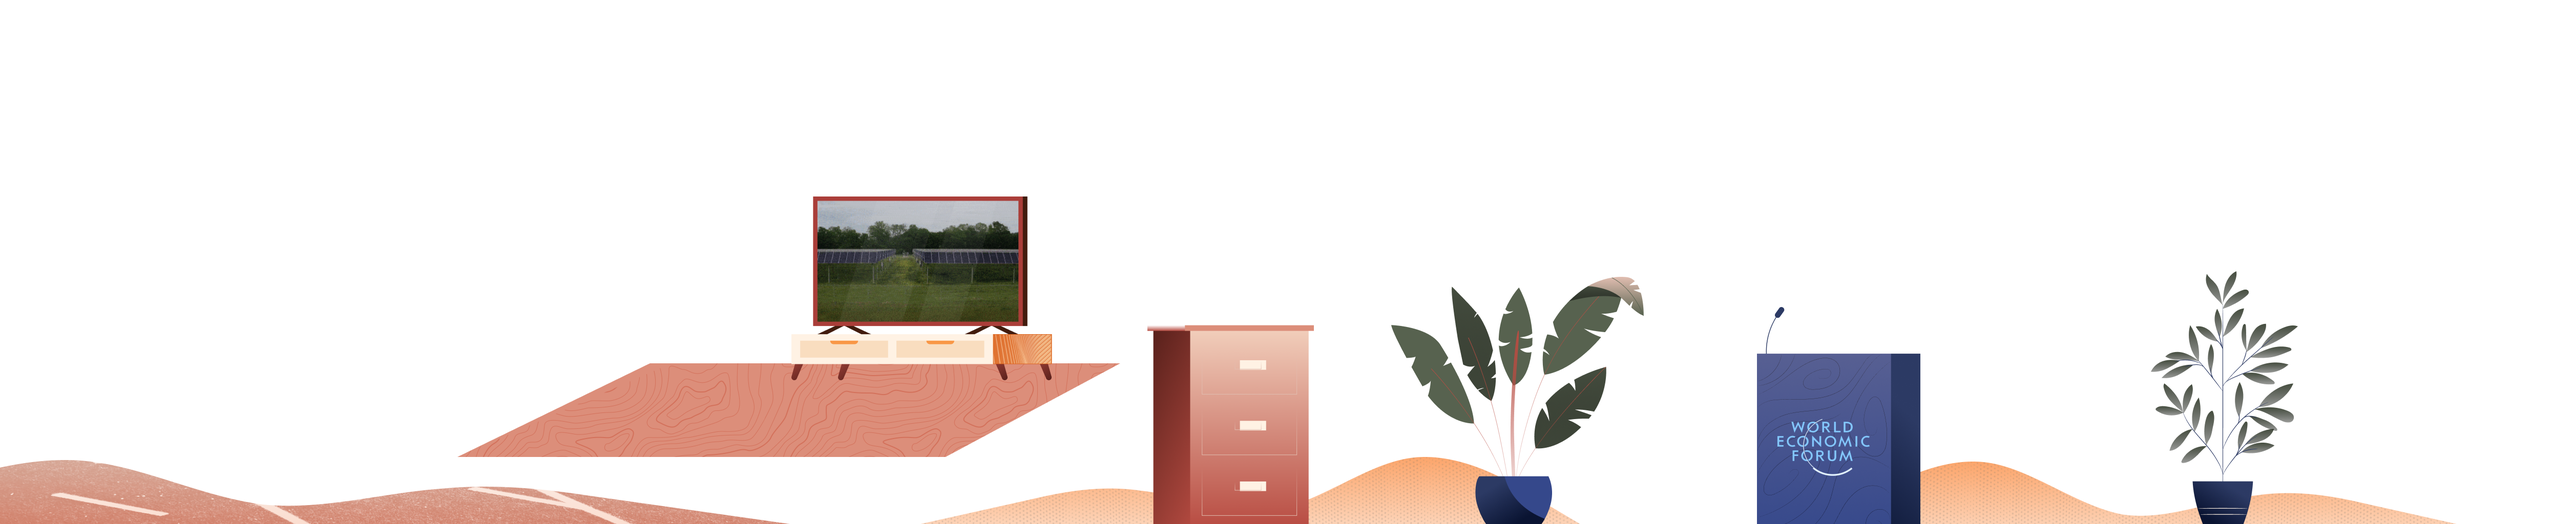
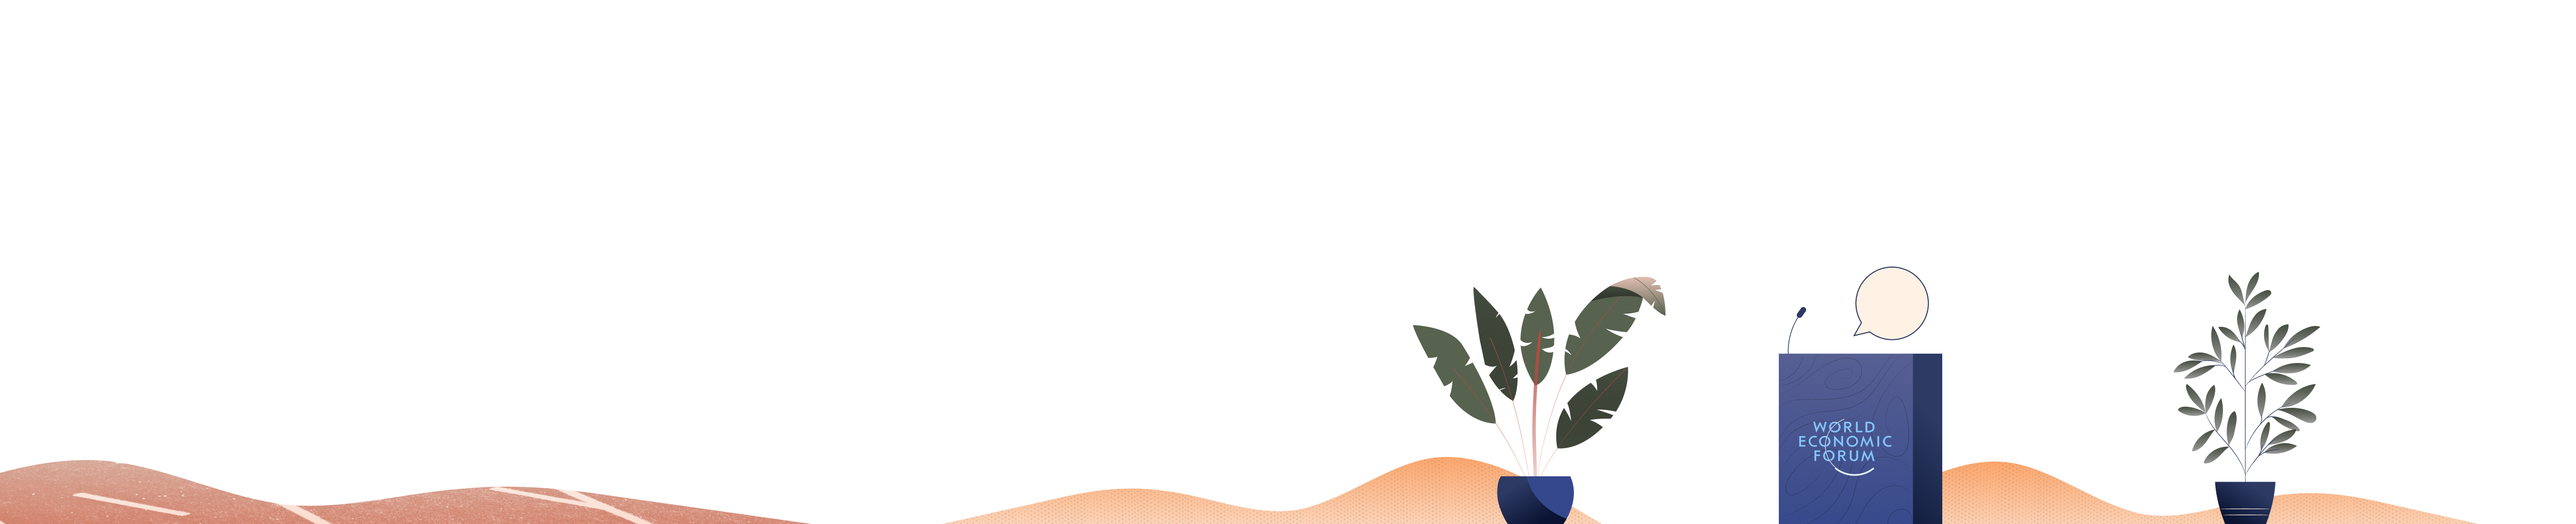
update

diff --git a/components/Chapter1.vue b/components/Chapter1.vue
@@ -8,6 +8,9 @@
                 <img class="b--ss-a__ft-items__artwork" @load="handleLoad"  @error="handleLoad" src="@/assets/img/chapter-1/front.png" alt=""> 
             </div>
             <div class="b--ss-a__content">
+
+                <!-- Intro Story -->
+                <!-- first div position element -->
                 <div class="b--chapter1-a__content">
                     <div class="b--intro-a">
                         <h1 class="b--intro-a__title">
@@ -19,6 +22,30 @@
                         <h3 class="b--intro-a__subtitle">{{chapter.description}}</h3>
                     </div>
                 </div>
+                <!-- Intro Story -->
+
+                <div class="b--chapter1-a__content b--chapter1-a__content--second">
+                    <div class="b--card-a">
+                        <div class="b--card-a__artwork"></div>
+                        <div class="b--card-a__wrapper">
+                            <SanityContent :blocks="chapter.content"  />
+                        </div>
+                    </div>
+                </div>
+
+                <div class="b--chapter1-a__artwork b--chapter1-a__artwork--second">
+                    <div class="b--card-b">
+                        <div class="b--card-a__artwork"></div>
+                        <div class="b--card-a__wrapper">
+                           <img src="@/assets/img/chapter-1/frame.gif" alt="">
+                        </div>
+                    </div>
+                </div>
+
+                 <div class="b--chapter1-a__artwork b--chapter1-a__artwork--third">
+                    <img src="@/assets/img/chapter-1/browser.gif" alt="">
+                </div>
+
             </div>
             <div class="b--ss-a__bg-items">
                 <img class="b--ss-a__bg-items__artwork" @load="handleLoad"  @error="handleLoad" src="@/assets/img/chapter-1/back.png" alt="">    
@@ -30,6 +57,7 @@
 <script>
 // Data import
 import { groq } from '@nuxtjs/sanity';
+import { SanityContent } from '@nuxtjs/sanity/dist/components/sanity-content';
 
 export default {
     data:()=>{
@@ -39,13 +67,17 @@ export default {
             chapter : null,
 		}
 	},
+    components:{
+        SanityContent
+    },
     methods: {
         async getContent(){
             this.lang = (this.$route.name == 'index') ? 'en' : this.$route.name;
             const query_content = groq`*[_type == "chapterOne"][0]{
                 "title" : title['`+this.lang+`'],
                 "date" : date['`+this.lang+`'],
-                "description" : description['`+this.lang+`']
+                "description" : description['`+this.lang+`'],
+                "content" : content['`+this.lang+`']
             }`;
             this.chapter = await this.$sanity.fetch(query_content);
             this.contentLoaded++;

diff --git a/sass/framework/_vars/vars.scss b/sass/framework/_vars/vars.scss
@@ -3,35 +3,42 @@
 */
 
 
+// BROWNS
+$color-a:#421C0E;
+$color-b:#AA3E39;
+$color-c:#DC8E7A;
+$color-d:#744A45;
+$color-b:#B36148;
 
-$color-a:#0a1432;
-$color-b:#2c3a64;
-$color-c:#421c0e;
-$color-d:#aa3e39;
+// WHITE & "BLACK"
+$color-c:#FFFFFF;
+$color-c:#2F2929;
 
-$color-b:#F98968;
-$color-c:#FFF2E4;
+// CREAM
+$color-d:#FFF2E4;
+$color-e:#F1CDBA;
+$color-f:#F9DDBF;
 
+// GREY
+$color-g:#C7C7C7;
+$color-h:#B4BFD1;
+$color-i:#A4B0C6;
 
-$color-d:#AA3E39;
-$color-e:#701C18;
+// ORANGE
+$color-j:#F99746;
+$color-k:#E8945B;
+$color-l:#F98968;
 
+// GREEN
+$color-m:#57624F;
+$color-n:#79B27F;
+$color-o:#3D4538;
 
-$color-f:#F98968;
-$color-g:#F98968;
-
-
-$color-h:#2C3A64;
-$color-i:#0A1432;
-
-
-$color-j:#454E3F;
-$color-k:#21241F;
-
-$color-l:#F99746;
-$color-m:#FFEC34;
-$color-n:#84C7FC;
-
+// BLUE
+$color-p:#2C3A64;
+$color-q:#33579E;
+$color-r:#35488B;
+$color-s:#33579E;
 
 $color-options: (
   a: $color-a,
@@ -47,10 +54,39 @@ $color-options: (
   k: $color-k,
   l: $color-l,
   m: $color-m,
-  n: $color-n
+  n: $color-n,
+  o: $color-o,
+  p: $color-p,
+  q: $color-q,
+  r: $color-r,
+  s: $color-s,
 );
 
 // needs to be defined
+// Gradient Brown1
+// linear-gradient(180deg, #B84C42 0%, rgba(184, 76, 66, 0) 100%)
+// Gradient Brown2
+// linear-gradient(180deg, #E1BEB1 0%, rgba(225, 190, 177, 0) 100%)
+// Gradient Brown3
+// linear-gradient(156.66deg, #B84C42 -7.55%, #57201B 101.54%)
+// Gradient Cream1
+// linear-gradient(180deg, #F1CDBA 0%, rgba(241, 205, 186, 0) 100%)
+// Gradient Cream2
+// linear-gradient(180deg, #F9DDBF 3.39%, rgba(249, 221, 191, 0) 91.93%)
+// Gradient White
+// linear-gradient(180deg, #FAFAFA 24.56%, rgba(250, 250, 250, 0) 161.83%)
+// Gradient White2
+// linear-gradient(180deg, #FFF3E9 0%, rgba(255, 243, 233, 0.6) 100%)
+// Gradient Orange1
+// linear-gradient(180deg, #F98968 0%, rgba(249, 137, 104, 0) 100%)
+// Gradient Orange2
+// linear-gradient(180deg, #FCA56B 0%, rgba(252, 165, 107, 0) 100%)
+// Gradient Green 1
+// linear-gradient(180deg, #454E3F 0%, rgba(33, 36, 31, 0.45) 100%)
+// Gradient Blue1
+// linear-gradient(218.3deg, #2C3A64 22.06%, #0A1432 74.88%)
+// Gradient Blue2
+// linear-gradient(360deg, #33579E 47.51%, #A6C4FF 147.8%)
 $colorbg-options: (
   a: $color-d,
   b: $color-e,

diff --git a/sass/framework/components/card/b--card-a.scss b/sass/framework/components/card/b--card-a.scss
@@ -1,18 +1,21 @@
-.b--card-a{
+.b--card-b{
+    &__artwork{
+        content:'';
+        position:absolute;
+        top:0;
+        right:-10px;
+        width:10px;
+        background:red;
+        height: 100%;
+    }
     position: relative;
-    border: 10px solid #771f1b;
-    background: linear-gradient(0deg, #feedec, #ae8f8d);
-    padding: $measure * 2 $measure * 3;
-    max-width: 539px;
-    margin-bottom: 30px;
-    z-index: 2;
-    &__title{
-        font-size: 60px;
+    &__wrapper{
+        background: linear-gradient(0deg, #feedec, #ae8f8d);
+        padding: $measure * 2 $measure * 3;
+        max-width: 539px;
+        margin-bottom: 30px;
+        z-index: 2;
+        border: 10px solid #771f1b;
     }
-    &__badge{
-        font-size: 100px;
-    }
-    &__subtitle{
-        font-size:25px;
-    }
+    
 }

diff --git a/sass/framework/components/chapter/b--chapter1-a.scss b/sass/framework/components/chapter/b--chapter1-a.scss
@@ -3,17 +3,28 @@
     &__content{
         position:absolute;
         bottom:90px;
-        left:150px
+        left:5%;
+
+        // intro second box
+        &--second{
+            left:18%;
+        }
     }
-    //buble
+   
     &__artwork{
         position: absolute;
-        // width: 120px;
-        // height: 120px;
-        // background: red;
-        // background: url('@/assets/img/chapter-1/bubble.svg');
-        left: 70.5%;
-        top: 51%;
         z-index: 150;
+
+        // Gif top left
+        &--second{
+            top: 7%;
+            left: 2%;
+        }
+        // Browser
+        &--third{
+            top: 7%;
+            left: 19%;
+        }
     }
+   
 }

diff --git a/sass/framework/components/card/b--card-b.scss b/sass/framework/components/card/b--card-b.scss
@@ -1,0 +1,24 @@
+.b--card-a{
+    &__artwork{
+        content:'';
+        position:absolute;
+        top:0;
+        right:-10px;
+        width:10px;
+        background:red;
+        height: 100%;
+    }
+    position: relative;
+    &__wrapper{
+        background: linear-gradient(0deg, #feedec, #ae8f8d);
+        padding: $measure * 2 $measure * 3;
+        max-width: 539px;
+        margin-bottom: 30px;
+        z-index: 2;
+        border-top: 5px solid #771f1b;
+        border-bottom: 5px solid #771f1b;
+        border-left: 10px solid #771f1b;
+        border-right: 10px solid #771f1b;
+    }
+    
+}

diff --git a/sass/framework/components/single-story/b--ss-a.scss b/sass/framework/components/single-story/b--ss-a.scss
@@ -15,6 +15,7 @@
     &__content {
       position: absolute;
       bottom: 0;
+      right: 0;
       left: 0;
       z-index: 2;
       width: auto;

diff --git a/sass/index.scss b/sass/index.scss
@@ -32,7 +32,7 @@
 
 // Cards
 @import './framework/components/card/b--card-a.scss';
-
+@import './framework/components/card/b--card-b.scss';
 
 
 

diff --git a/sass/framework/components/intro/b--intro-a.scss b/sass/framework/components/intro/b--intro-a.scss
@@ -1,3 +1,4 @@
+// this card it's only used @ intro.
 .b--intro-a{
     position: relative;
     border: 10px solid #771f1b;
